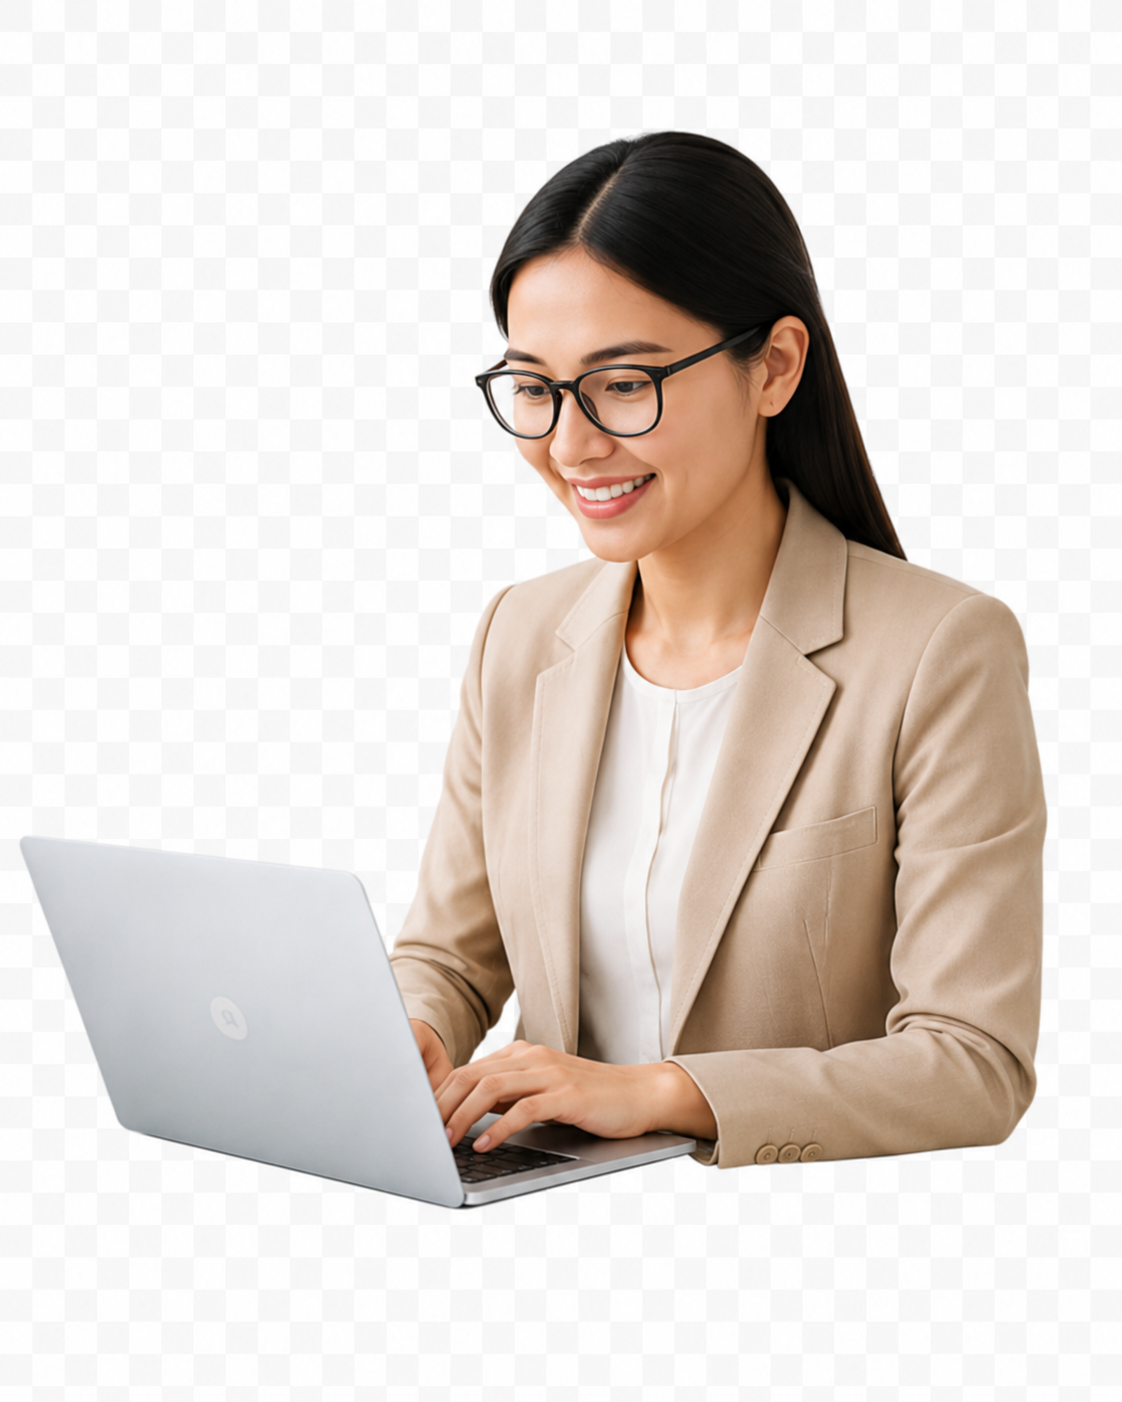
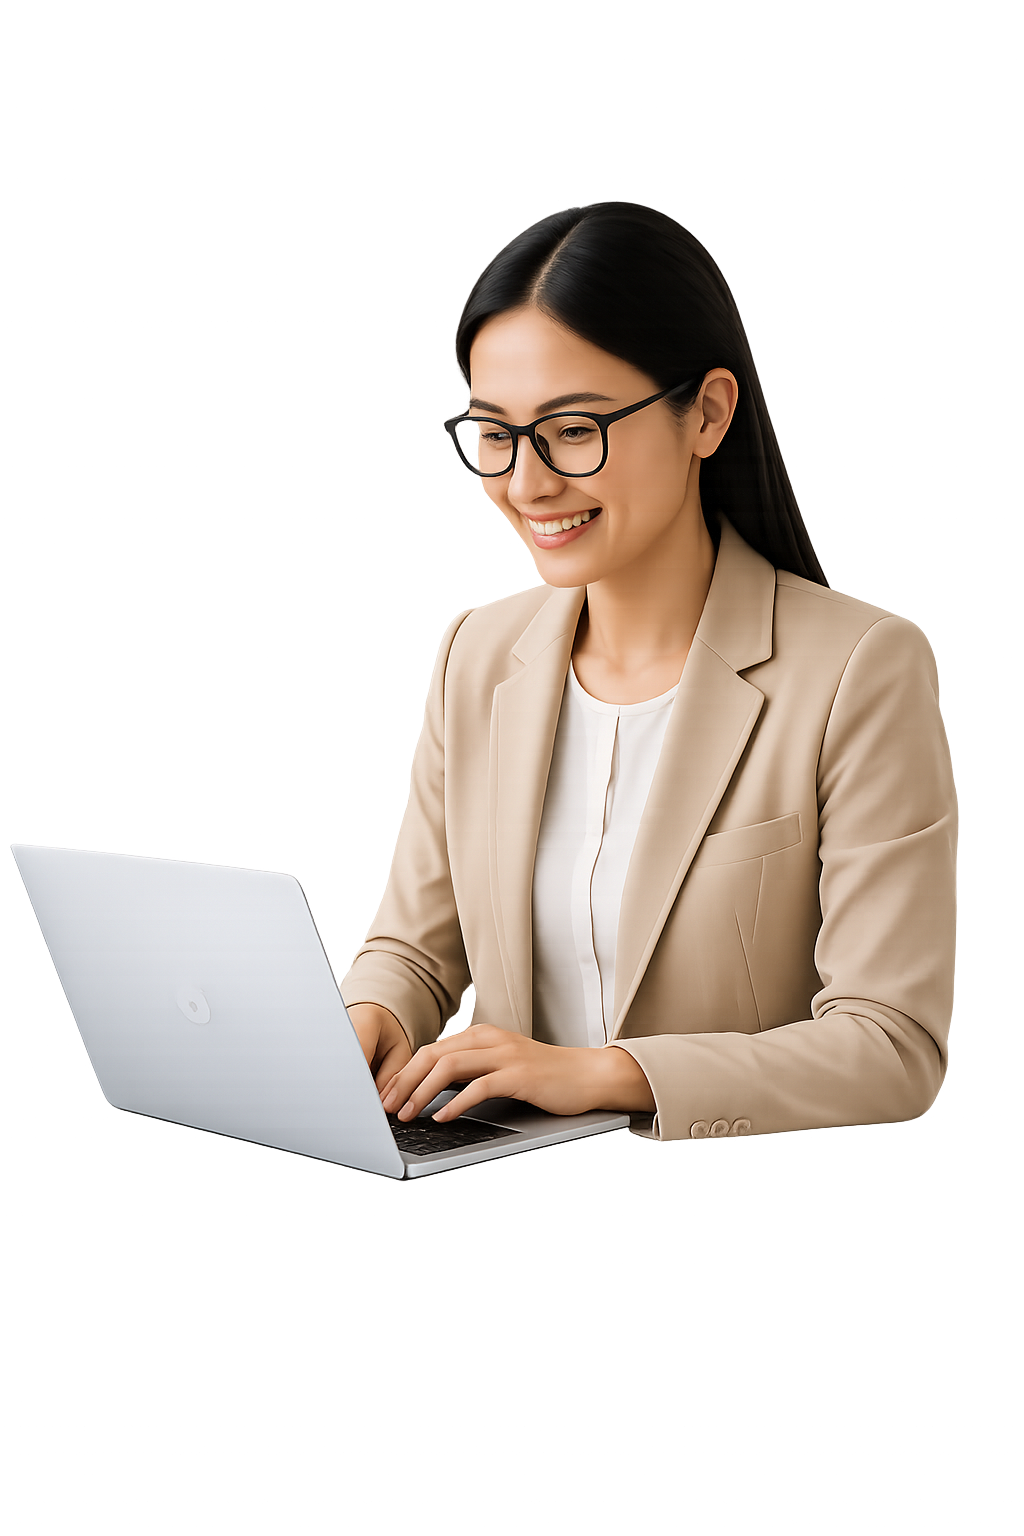
fix mirror bug

Changed region(s): [[0.0, 0.092, 0.9375, 0.8894]]

diff --git a/src/features/home/components/LandingSections.tsx b/src/features/home/components/LandingSections.tsx
@@ -25,6 +25,7 @@ import {
 import type { LucideIcon } from 'lucide-react'
 import { useState } from 'react'
 import { Link } from 'react-router'
+import logoImage from '@/assets/images/logo.png'
 import schoolImage from '@/assets/images/school.png'
 import studentSpeakingImage from '@/assets/images/student-speaking.png'
 import studentUseLaptopImage from '@/assets/images/student-use-lap.png'
@@ -108,38 +109,18 @@ function Container({
   return <div className={`mx-auto max-w-7xl px-4 sm:px-6 lg:px-8 ${className}`}>{children}</div>
 }
 
-function Logo({ dark = false }: { dark?: boolean }) {
+function Logo({ className = 'h-11 w-32' }: { className?: string }) {
   return (
     <Link
-      aria-label="vox home"
-      className={`inline-flex items-center gap-2 text-3xl font-black ${
-        dark ? 'text-slate-950' : 'text-white'
-      }`}
+      aria-label="vox"
+      className={`inline-flex shrink-0 items-center overflow-hidden ${className}`}
       to="/"
     >
-      <span>V</span>
-      <span
-        className={`relative inline-flex size-7 items-center justify-center rounded-full border-2 ${
-          dark ? 'border-indigo-600' : 'border-white'
-        }`}
-      >
-        <span
-          className={`h-3 w-0.5 rounded-full ${
-            dark ? 'bg-indigo-600' : 'bg-white'
-          }`}
-        />
-        <span
-          className={`mx-0.5 h-4 w-0.5 rounded-full ${
-            dark ? 'bg-indigo-600' : 'bg-white'
-          }`}
-        />
-        <span
-          className={`h-3 w-0.5 rounded-full ${
-            dark ? 'bg-indigo-600' : 'bg-white'
-          }`}
-        />
-      </span>
-      <span>X</span>
+      <img
+        alt="vox"
+        className="h-full w-full object-cover object-center"
+        src={logoImage}
+      />
     </Link>
   )
 }
@@ -276,15 +257,7 @@ export function HeroSection() {
       <Container className="relative grid items-center gap-10 pt-8 md:grid-cols-[0.95fr_1.05fr] md:pt-14 lg:gap-14">
         <div className="max-w-2xl text-left">
           <div className="mb-7 hidden sm:block">
-            <div className="inline-flex items-center gap-3 text-7xl font-black leading-none lg:text-8xl">
-              <span>V</span>
-              <span className="relative inline-flex size-20 items-center justify-center rounded-full border-[6px] border-white lg:size-24">
-                <span className="h-8 w-1 rounded-full bg-white" />
-                <span className="mx-1.5 h-12 w-1 rounded-full bg-white" />
-                <span className="h-8 w-1 rounded-full bg-white" />
-              </span>
-              <span>X</span>
-            </div>
+            <Logo className="h-24 w-72 sm:h-28 sm:w-80" />
           </div>
 
           <h1 className="max-w-xl text-4xl font-black leading-[1.08] sm:text-5xl lg:text-6xl">
@@ -343,7 +316,7 @@ export function HeroSection() {
 function HeroMockup() {
   return (
     <div className="relative mx-auto w-full max-w-[620px]">
-      <div className="absolute -right-1 top-4 hidden size-44 overflow-hidden rounded-full border-4 border-white bg-white shadow-2xl shadow-indigo-950/30 sm:block lg:-right-7 lg:-top-8 lg:size-48">
+      <div className="absolute -right-1 top-4 z-20 hidden size-44 overflow-hidden rounded-full border-4 border-white bg-white shadow-2xl shadow-indigo-950/30 sm:block lg:-right-7 lg:-top-8 lg:size-48">
         <img
           alt="Học sinh đang làm bài thi nói với tai nghe"
           className="h-full w-full object-cover"
@@ -351,7 +324,7 @@ function HeroMockup() {
         />
       </div>
 
-      <div className="relative rounded-[2rem] border border-white/30 bg-white/95 p-4 text-slate-950 shadow-2xl shadow-indigo-950/40 sm:p-6">
+      <div className="relative z-10 rounded-[2rem] border border-white/30 bg-white/95 p-4 text-slate-950 shadow-2xl shadow-indigo-950/40 sm:p-6">
         <div className="flex flex-wrap items-center justify-between gap-3">
           <div>
             <p className="text-lg font-bold">Bài thi nói</p>
@@ -436,7 +409,7 @@ function HeroMockup() {
           </div>
         </div>
 
-        <div className="mt-4 flex items-center gap-3 rounded-2xl bg-indigo-50 p-3 sm:hidden">
+        <div className="relative z-20 mt-4 flex items-center gap-3 rounded-2xl bg-indigo-50 p-3 sm:hidden">
           <img
             alt="Học sinh đang nói tiếng Anh"
             className="size-14 rounded-full object-cover"
@@ -649,7 +622,7 @@ export function LandingFooter() {
       <Container>
         <div className="grid gap-8 md:grid-cols-[1.4fr_2fr_1fr]">
           <div>
-            <Logo dark />
+            <Logo className="h-11 w-32 drop-shadow-[0_1px_2px_rgba(15,23,42,0.30)]" />
             <p className="mt-4 max-w-xs text-sm leading-6 text-slate-600">
               Nền tảng đánh giá bài thi nói tiếng Anh bằng trí tuệ nhân tạo.
             </p>
@@ -704,4 +677,3 @@ function SectionHeading({ title }: { title: React.ReactNode }) {
     </div>
   )
 }
-